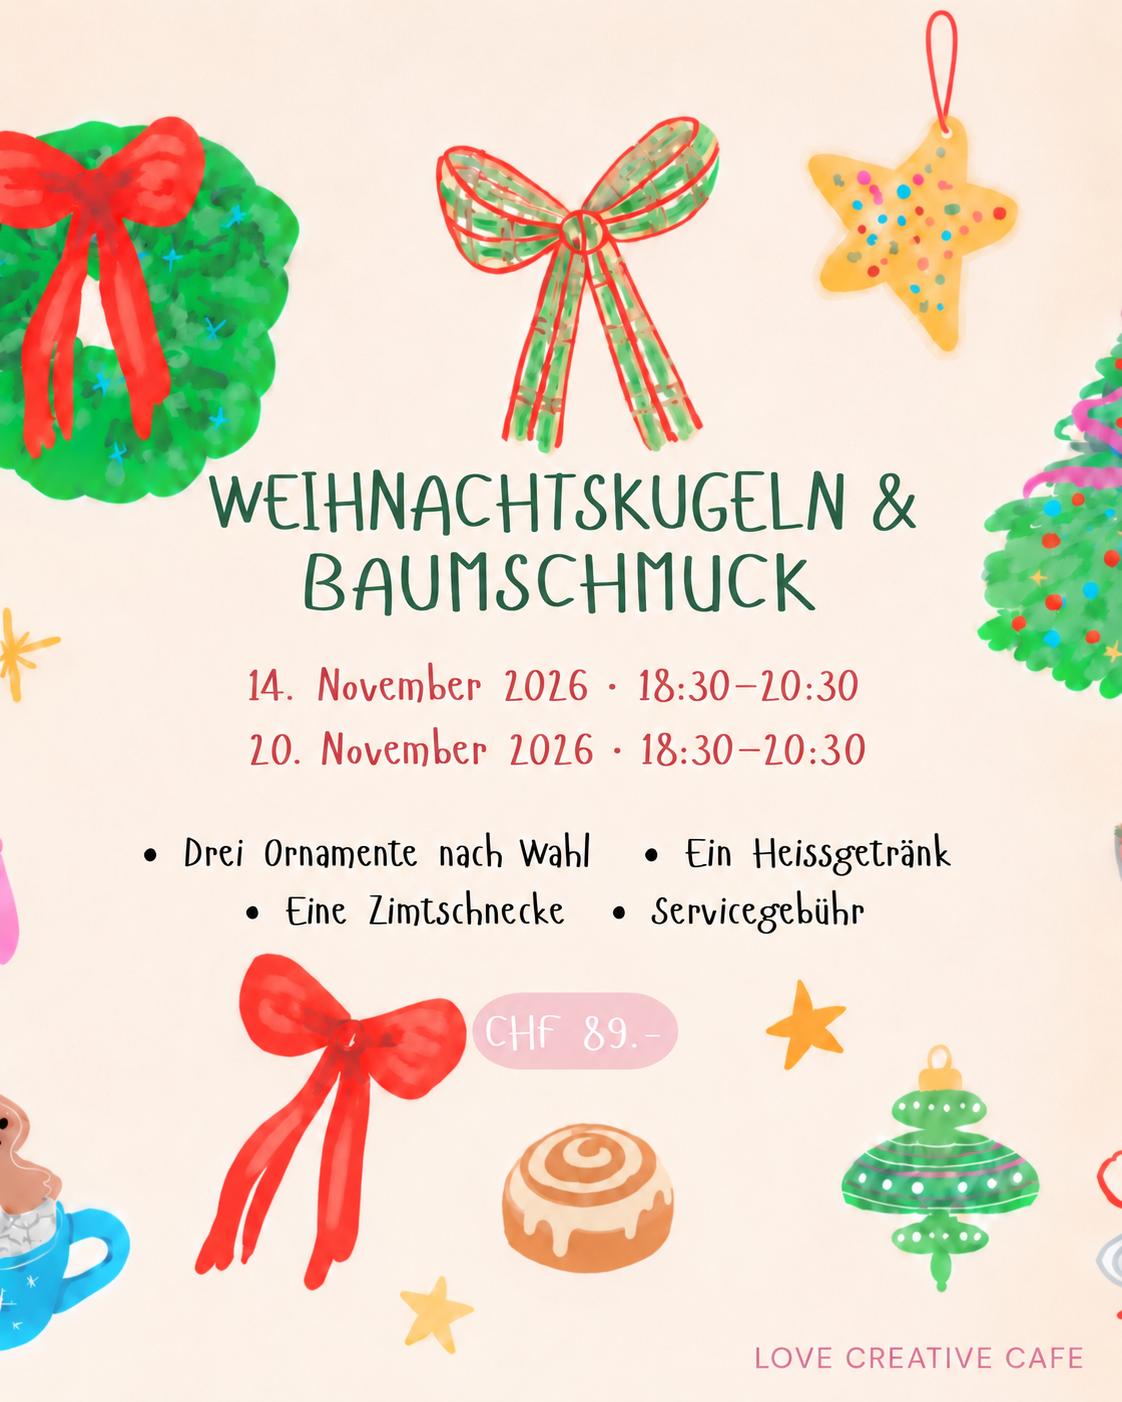
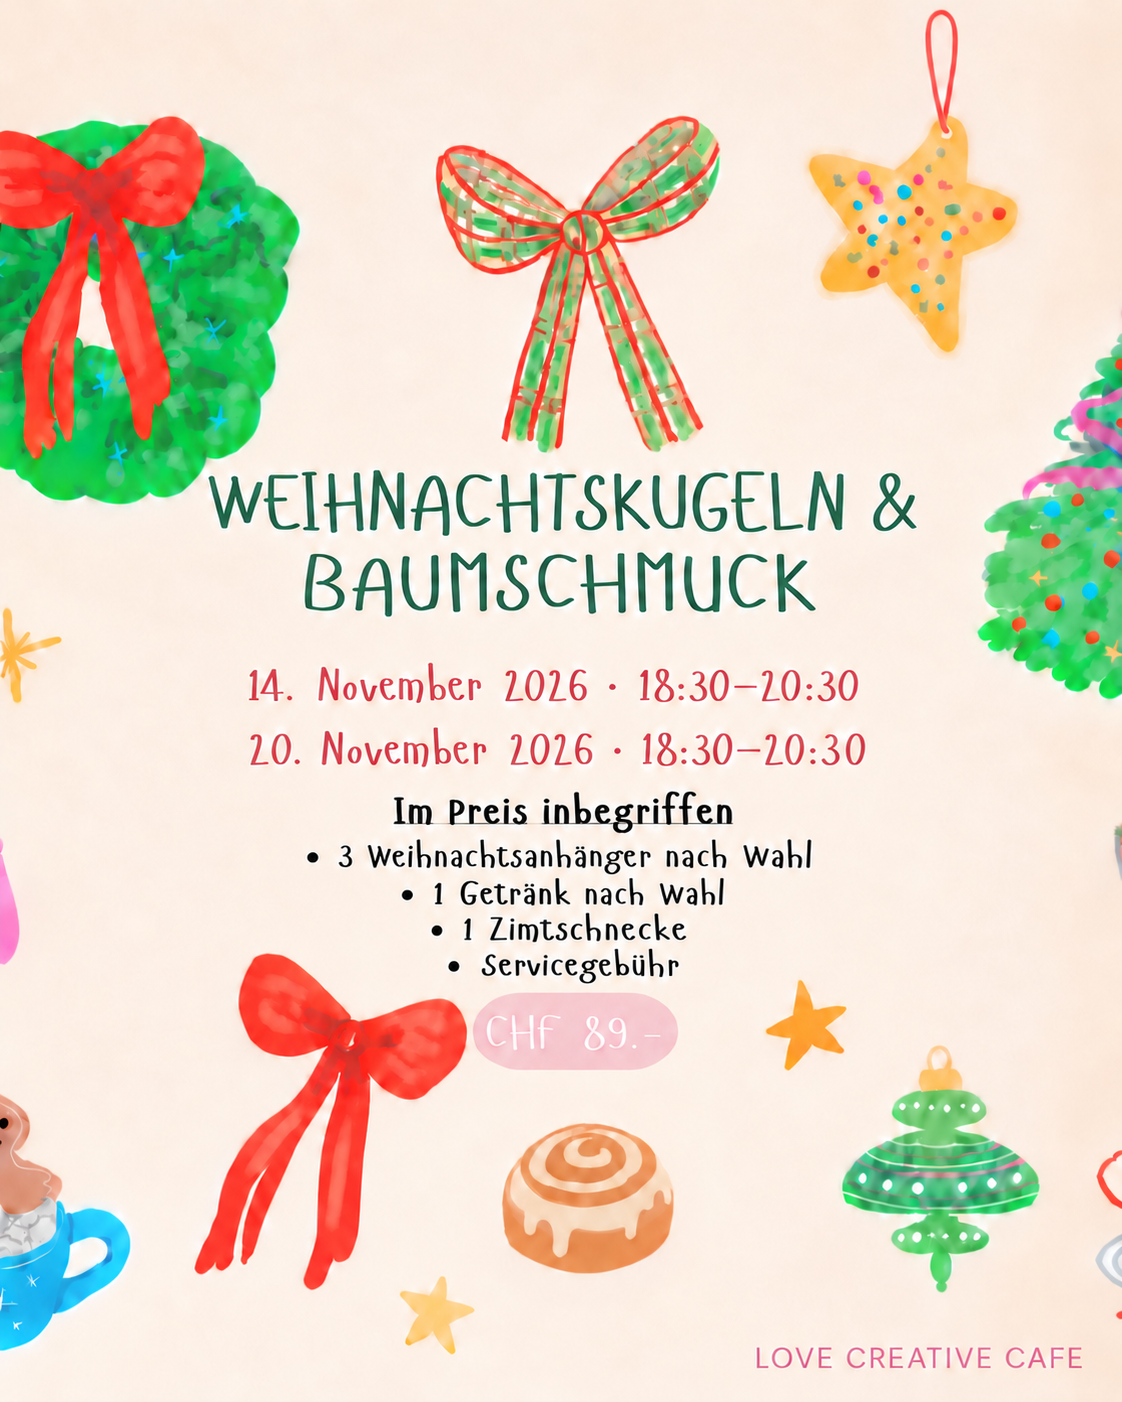
Clarify Christmas workshop flyer and included CHF 89 bundle

diff --git a/weihnachtsornamente.html b/weihnachtsornamente.html
@@ -1,4 +1,4 @@
-<!doctype html><html lang="de"><head><meta charset="utf-8"><meta name="viewport" content="width=device-width,initial-scale=1"><meta name="description" content="Weihnachtskugeln &amp; Baumschmuck am 14. oder 20. November 2026, 18:30–20:30 Uhr. CHF 89 inklusive drei Ornamenten, Heissgetränk und Zimtschnecke."><link rel="canonical" href="https://lovecreative.ch/weihnachtsornamente.html"><title>Weihnachtskugeln &amp; Baumschmuck — LOVE Creative Café</title><link rel="icon" href="assets/logo/logo-love.svg"><link href="https://fonts.googleapis.com/css2?family=Playfair+Display:ital,wght@0,600;0,700;1,600&family=Lexend:wght@300;400;500;600;700&display=swap" rel="stylesheet"><link rel="stylesheet" href="assets/css/love.css?v=d5045f8e"><link rel="stylesheet" href="assets/css/love-ornaments.css?v=f3809b6b"></head><body><a class="skip" href="#main">Zum Inhalt springen</a><header class="site" id="top">
+<!doctype html><html lang="de"><head><meta charset="utf-8"><meta name="viewport" content="width=device-width,initial-scale=1"><meta name="description" content="Weihnachtskugeln &amp; Baumschmuck am 14. oder 20. November 2026, 18:30–20:30 Uhr. CHF 89 inklusive drei Weihnachtsanhängern nach Wahl, einem Getränk nach Wahl und Zimtschnecke. Servicegebühr inklusive."><link rel="canonical" href="https://lovecreative.ch/weihnachtsornamente.html"><title>Weihnachtskugeln &amp; Baumschmuck — LOVE Creative Café</title><link rel="icon" href="assets/logo/logo-love.svg"><link href="https://fonts.googleapis.com/css2?family=Playfair+Display:ital,wght@0,600;0,700;1,600&family=Lexend:wght@300;400;500;600;700&display=swap" rel="stylesheet"><link rel="stylesheet" href="assets/css/love.css?v=d5045f8e"><link rel="stylesheet" href="assets/css/love-ornaments.css?v=949ee6e48902"></head><body><a class="skip" href="#main">Zum Inhalt springen</a><header class="site" id="top">
   <div class="nav-in">
     <a class="brand" href="https://lovecreative.ch/index.html" aria-label="LOVE Creative Café — Start">
       <img src="assets/logo/logo-love.svg" alt="" width="46" height="46">
@@ -41,10 +41,18 @@
 <p class="eyebrow" data-i18n="orn.eyebrow">Ein kreativer Weihnachtsabend</p>
 <h1 data-i18n="orn.title">Weihnachtskugeln &amp; Baumschmuck</h1>
 <p class="flyer-intro" data-i18n="orn.intro">Gestalte drei Weihnachtsanhänger deiner Wahl und geniesse einen gemütlichen, kreativen Abend im LOVE Creative Café.</p>
-<div class="poster"><img src="assets/img/weihnachtskugeln-baumschmuck-de.png" width="1122" height="1402" fetchpriority="high" alt="Weihnachtskugeln &amp; Baumschmuck: 14. und 20. November, 18:30–20:30 Uhr, CHF 89 inklusive drei Ornamenten, Heissgetränk, Zimtschnecke und Servicegebühr."></div>
+<div class="poster"><img src="assets/img/weihnachtskugeln-baumschmuck-de.png?v=ddcc9015e81d" width="1122" height="1402" fetchpriority="high" alt="Weihnachtskugeln &amp; Baumschmuck: 14. und 20. November, 18:30–20:30 Uhr, CHF 89 inklusive drei Weihnachtsanhängern nach Wahl, einem Getränk nach Wahl und Zimtschnecke. Servicegebühr inklusive."></div>
 <div class="event-meta"><span>14. / 20. November 2026</span><span>18:30–20:30</span><span data-i18n="orn.capacity">20 Plätze pro Abend</span></div>
 <p class="event-price">CHF 89 <small data-i18n="orn.perPerson">pro Person</small></p>
-<p data-i18n="orn.includes">Inklusive drei Ornamenten deiner Wahl, einem Heissgetränk, einer Zimtschnecke und Servicegebühr.</p>
+<div class="price-includes">
+  <h2 data-i18n="orn.includesTitle">Im Preis inbegriffen</h2>
+  <ul>
+    <li data-i18n="orn.includesItems">3 Weihnachtsanhänger nach Wahl</li>
+    <li data-i18n="orn.includesDrink">1 Getränk nach Wahl</li>
+    <li data-i18n="orn.includesRoll">1 Zimtschnecke</li>
+    <li data-i18n="orn.includesService">Servicegebühr</li>
+  </ul>
+</div>
 <p class="limited">LOVE Creative Café · Seestrasse 287B, 8804 Au ZH</p>
 <button type="button" class="btn btn-rose flyer-booking-button" data-purchase data-i18n="orn.book">Datum wählen &amp; buchen</button>
 <p class="limited" id="release-note" data-i18n="orn.release">Die Onlinebuchung wird in Kürze freigeschaltet.</p>
@@ -126,13 +134,14 @@
 <button type="button" id="purchase-new" class="btn btn-rose" hidden data-i18n="orn.new">Neue Buchung starten</button>
 <p class="limited"><a href="mailto:hello@lovecreative.ch">hello@lovecreative.ch</a></p>
 </dialog>
-<script src="assets/js/love-ornaments-copy.js?v=82bf0115ba69"></script>
+<script src="assets/js/love-ornaments-copy.js?v=03007b4b7a43"></script>
 <script src="assets/js/love-site.js?v=195c6246331e"></script>
 <script src="assets/js/love-ornaments-purchase.js?v=335caaea"></script>
 <script src="assets/js/love-cloud.js?v=a1c36180"></script>
 <script src="assets/js/love-ornaments-adapter.js?v=856651fb"></script>
 <script src="assets/js/love-ornaments-ui.js?v=7ad1944d4b6c"></script>
 </body></html>
+
 
 
 

diff --git a/events.html b/events.html
@@ -17,7 +17,7 @@
 window.LOVE_TITLES = { de: 'Events — LOVE Creative Café, Au ZH', en: 'Events — LOVE Creative Café, Au ZH' };
 window.LOVE_EN = {
   'ev.ornT':'Christmas baubles &amp; tree decorations',
-  'ev.ornD':'14 or 20 November 2026, 6:30–8:30 pm. CHF 89 per person including three ornaments of your choice, a hot drink, a cinnamon roll and service fee. 20 places per evening.',
+  'ev.ornD':'14 or 20 November 2026, 6:30–8:30 pm. CHF 89 per person including three Christmas ornaments of your choice, a drink of your choice and a cinnamon roll. Service fee included. 20 places per evening.',
   'ev.ornC':'Choose your evening →',
   'ev.pilatesT':'Pilates &amp; Pottery',
   'ev.pilatesD':'5 December 2026: 10–11 am Pilates in The MAT Room, followed by pottery painting at LOVE Creative Café from 11:15 am to approx. 2 pm. CHF 89 including a ceramic piece up to size M, croissant and drink.',
@@ -118,10 +118,10 @@ window.LOVE_EN = {
   <div class="wrap">
     <div class="grid-3">
       <div class="feature reveal">
-        <img src="assets/img/weihnachtskugeln-baumschmuck-de.png" alt="Weihnachtskugeln &amp; Baumschmuck — LOVE Creative Café" loading="lazy" width="1122" height="1402" style="aspect-ratio:4/5;object-fit:contain">
+        <img src="assets/img/weihnachtskugeln-baumschmuck-de.png?v=ddcc9015e81d" alt="Weihnachtskugeln &amp; Baumschmuck — LOVE Creative Café" loading="lazy" width="1122" height="1402" style="aspect-ratio:4/5;object-fit:contain">
         <div class="body">
           <h3 data-i18n="ev.ornT">Weihnachtskugeln &amp; Baumschmuck</h3>
-          <p data-i18n="ev.ornD">14. oder 20. November 2026, 18:30–20:30 Uhr. CHF 89 pro Person inklusive drei Ornamenten deiner Wahl, Heissgetränk, Zimtschnecke und Servicegebühr. 20 Plätze pro Abend.</p>
+          <p data-i18n="ev.ornD">14. oder 20. November 2026, 18:30–20:30 Uhr. CHF 89 pro Person inklusive drei Weihnachtsanhängern nach Wahl, einem Getränk nach Wahl und Zimtschnecke. Servicegebühr inklusive. 20 Plätze pro Abend.</p>
           <a class="btn btn-rose btn-sm" href="weihnachtsornamente.html" data-i18n="ev.ornC">Zum Weihnachtsabend →</a>
         </div>
       </div>
@@ -247,6 +247,7 @@ window.LOVE_EN = {
 <script src="assets/js/love-widget.js?v=0efa0c46"></script>
 </body>
 </html>
+
 
 
 

diff --git a/assets/js/love-ornaments-copy.js b/assets/js/love-ornaments-copy.js
@@ -6,7 +6,7 @@ window.LOVE_EN={
  'orn.bookingTitle':'Christmas baubles &amp; tree decorations',
  'orn.intro':'Paint three Christmas ornaments of your choice and enjoy a cosy, creative evening at LOVE Creative Café.',
  'orn.capacity':'20 places per evening','orn.perPerson':'per person',
- 'orn.includes':'Includes three ornaments of your choice, a hot drink, a cinnamon roll and service fee.',
+ 'orn.includesTitle':'Included in the price','orn.includesItems':'3 Christmas ornaments of your choice','orn.includesDrink':'1 drink of your choice','orn.includesRoll':'1 cinnamon roll','orn.includesService':'Service fee',
  'orn.book':'Choose a date & book','orn.release':'Online booking will open soon.',
  'orn.notice':'Pay securely with Payrexx. Your places are booked only after payment is confirmed.',
  'orn.date':'Date · 6:30–8:30 pm (Swiss time)','orn.people':'Number of people','orn.name':'Full name','orn.email':'Email','orn.phone':'Mobile phone',
@@ -15,5 +15,6 @@ window.LOVE_EN={
  'orn.pay':'Pay now →','orn.resume':'Resume payment →','orn.check':'Check payment status',
  'orn.new':'Start a new booking'
 };
+
 
 

diff --git a/assets/css/love-ornaments.css b/assets/css/love-ornaments.css
@@ -18,3 +18,7 @@
 .checkout-fields select{display:block;width:100%;padding:10px;border:1px solid var(--line);border-radius:8px;background:white;font:inherit}
 #purchase-fields{border:0;padding:0;margin:0;min-width:0}#availability{margin:0;font-size:13px}
 #purchase-submit:disabled{opacity:.55;cursor:not-allowed}.checkout-consent a{text-decoration:underline}
+
+
+/* Clear, inclusive CHF 89 workshop bundle. */
+.price-includes{margin:16px 0;padding:18px 20px;border:1px solid var(--line);border-radius:14px;background:var(--mimi)}.price-includes h2{font-family:var(--ff-body);font-size:1.05rem;line-height:1.4;color:var(--green);margin:0;font-weight:600}.price-includes ul{list-style:none;padding:0;margin:12px 0 0;display:grid;gap:8px}.price-includes li{display:flex;align-items:baseline;gap:10px;font-size:15px;line-height:1.5}.price-includes li::before{content:"✓";color:var(--green);font-weight:600}
